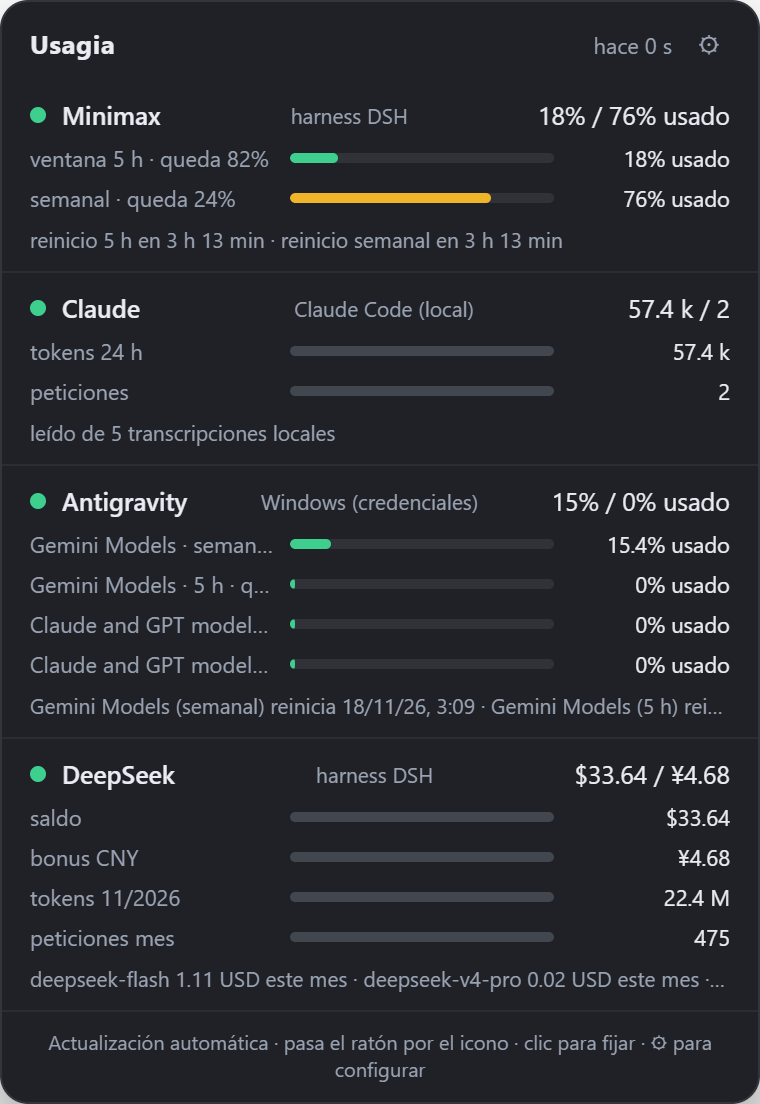
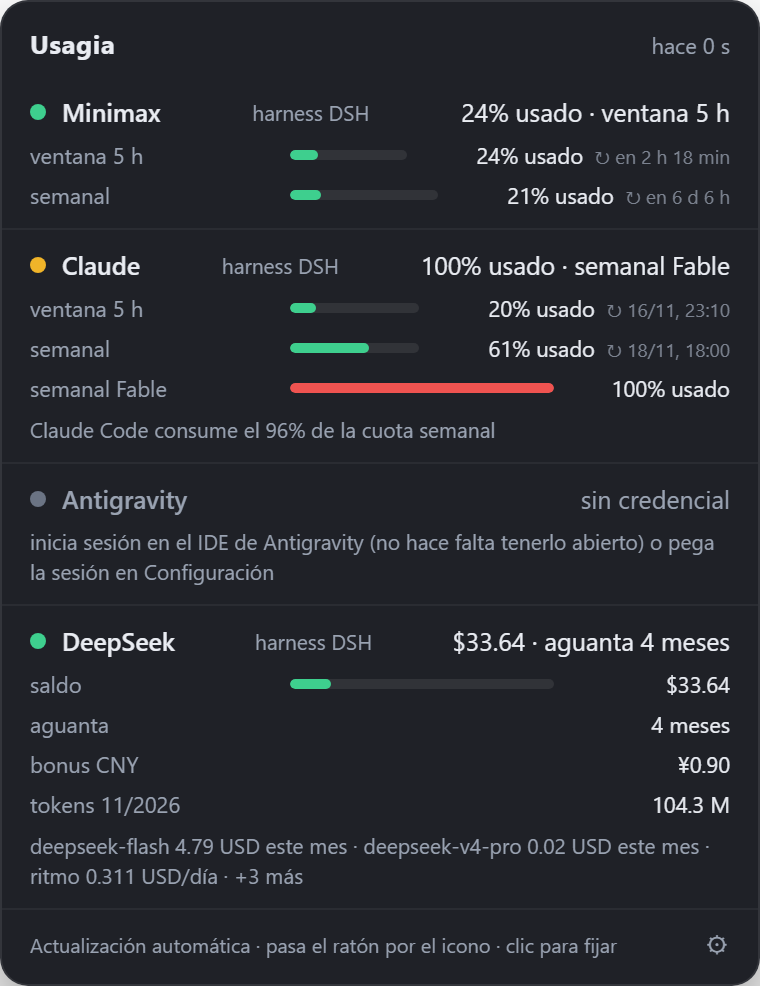
feat: el boton de configuracion baja al pie de la tarjeta, al lado de la pista
El boton era el unico clicable de la UI y estaba en la cabecera, compitiendo con el titulo y la hora. Ahora vive en el pie, a la derecha de la frase que explica como se usar; como esta al lado, la pista ya no lo nombra.

Fijado con una prueba en scripts/test-renderer.js: el boton esta en el footer y no en el header.

diff --git a/scripts/test-renderer.js b/scripts/test-renderer.js
@@ -398,6 +398,20 @@ t.check('la version nueva sale en el banner y el boton pide actualizar (o abre l
   assert.deepStrictEqual(world.bridge.opened, [info.url], 'sin actualizacion no se abre nada nuevo');
 });
 
+t.check('el boton de configuracion esta en el PIE de la tarjeta, al lado de la pista', () => {
+  const html = fs.readFileSync(path.join(__dirname, '..', 'src', 'renderer', 'card.html'), 'utf8');
+  const footer = html.match(/<footer class="foot">([\s\S]*?)<\/footer>/);
+  assert.ok(footer, 'la tarjeta tiene que seguir con un pie');
+  assert.ok(
+    /id="gear"/.test(footer[1]),
+    'el boton de configuracion va en el pie: es el unico boton clicable y asi queda a la vista'
+  );
+  // Y NO esta en la cabecera: la cabecera solo lleva el titulo y la hora.
+  const head = html.match(/<header class="head">([\s\S]*?)<\/header>/);
+  assert.ok(head, 'la tarjeta tiene que seguir con una cabecera');
+  assert.ok(!/id="gear"/.test(head[1]), 'el boton no vuelve a la cabecera');
+});
+
 t.check('el pie: "actualizando…" mientras refresca, "hace N s" despues, y la pista cambia al fijar', () => {
   const world = loadCard();
   world.render(basePayload([], { refreshing: true }));

diff --git a/src/renderer/card.css b/src/renderer/card.css
@@ -61,6 +61,7 @@ body {
   padding: 3px 5px;
   border-radius: 6px;
   cursor: pointer;
+  flex: none;
 }
 
 .gear:hover {
@@ -256,12 +257,23 @@ body {
   color: var(--warning);
 }
 
+/* El pie lleva la pista y, a su derecha, el boton de configuracion: es el
+   unico boton clicable de la tarjeta, asi que queda a la vista, al lado de la
+   frase que explica como se usa. */
 .foot {
-  padding: 8px 14px 10px;
+  display: flex;
+  align-items: center;
+  justify-content: space-between;
+  gap: 8px;
+  padding: 8px 10px 10px 14px;
   border-top: 1px solid rgba(255, 255, 255, 0.05);
   font-size: 10px;
   color: var(--fg-dim);
-  text-align: center;
+}
+
+#hint {
+  flex: 1;
+  min-width: 0;
 }
 
 /* Banner de actualización disponible */

diff --git a/src/renderer/card.html b/src/renderer/card.html
@@ -12,7 +12,6 @@
         <span class="title">Usagia</span>
         <span class="head-right">
           <span class="updated" id="updated">—</span>
-          <button class="gear" id="gear" type="button" title="Configuración" aria-label="Configuración">⚙</button>
         </span>
       </header>
       <div class="update-banner" id="updateBanner" hidden>
@@ -22,6 +21,7 @@
       <div class="rows" id="rows"></div>
       <footer class="foot">
         <span id="hint">Actualización automática · clic derecho en el icono para más opciones</span>
+        <button class="gear" id="gear" type="button" title="Configuración" aria-label="Configuración">⚙</button>
       </footer>
     </div>
     <script src="card.js"></script>

diff --git a/src/renderer/card.js b/src/renderer/card.js
@@ -250,9 +250,11 @@ function render(payload) {
 
   updatedEl.textContent = payload.refreshing ? 'actualizando…' : relativeTime(payload.updatedAt);
   if (hintEl) {
+    // El boton de configuracion va al pie, al lado de esta pista: no hace
+    // falta nombrarlo en el texto.
     hintEl.textContent = payload.pinned
-      ? 'Fijado · pasa el ratón o haz clic en el icono para soltarlo · ⚙ para configurar'
-      : 'Actualización automática · pasa el ratón por el icono · clic para fijar · ⚙ para configurar';
+      ? 'Fijado · pasa el ratón o haz clic en el icono para soltarlo'
+      : 'Actualización automática · pasa el ratón por el icono · clic para fijar';
   }
   reportSize();
 }

diff --git a/STATUS.md b/STATUS.md
@@ -1,6 +1,6 @@
 # Estado de Usagia
 
-> **Última actualización:** 2026-11-16 18:40 (Europe/Madrid).
+> **Última actualización:** 2026-11-16 18:55 (Europe/Madrid).
 > **Quién escribe este fichero ahora mismo:** la sesión de **documentación** (la que partió
 > este fichero en *estado* + *historial*). Ver
 > [Lo último: documentación para humanos y agentes](#lo-último-documentación-para-humanos-y-agentes-2026-11-16-1850).
@@ -19,21 +19,22 @@
 <!-- índice-de-secciones: generado con `node scripts/docs-metrics.js --index <fichero>` -->
 | Sección | Línea |
 |---|---|
-| Lo último: documentación para humanos y agentes (2026-11-16 18:50) | 39 |
-| Resumen en una línea | 71 |
-| Sesiones activas en este repo (2026-11-16 18:45) | 82 |
-| Versiones | 128 |
-| Cola de la revisión a fondo: lo que queda (items 12 y 17) | 160 |
-| Qué funciona (verificado) | 183 |
-| Pendiente / siguiente | 202 |
-| Puntos abiertos y riesgos conocidos | 233 |
-| Límites del sandbox de DSH al medir (no son fallos de la app) | 257 |
-| Reparto entre sesiones (acuerdo) | 269 |
-| Cómo mantener este fichero | 291 |
-| Decisiones que son del usuario | 304 |
-| Notas para quien siga | 311 |
-| Retomar (en 5 minutos) | 318 |
-| Actualización automática desde la app (2026-11-16 18:45) | 333 |
+| Lo último: documentación para humanos y agentes (2026-11-16 18:50) | 40 |
+| Lo último: el ⚙ baja al pie de la tarjeta (2026-11-16 18:55) | 72 |
+| Resumen en una línea | 94 |
+| Sesiones activas en este repo (2026-11-16 18:45) | 105 |
+| Versiones | 152 |
+| Cola de la revisión a fondo: lo que queda (items 12 y 17) | 184 |
+| Qué funciona (verificado) | 207 |
+| Pendiente / siguiente | 226 |
+| Puntos abiertos y riesgos conocidos | 257 |
+| Límites del sandbox de DSH al medir (no son fallos de la app) | 281 |
+| Reparto entre sesiones (acuerdo) | 293 |
+| Cómo mantener este fichero | 315 |
+| Decisiones que son del usuario | 328 |
+| Notas para quien siga | 335 |
+| Retomar (en 5 minutos) | 342 |
+| Actualización automática desde la app (2026-11-16 18:45) | 357 |
 <!-- fin-índice -->
 
 ## Lo último: documentación para humanos y agentes (2026-11-16 18:50)
@@ -68,6 +69,28 @@ sesión **no lo ha tocado**. `npm test` → **10 suites en verde**.
 sesión había cerrado su trabajo), así que cumplía la regla del repo. Es un `docs:`: **no
 publica release**.
 
+## Lo último: el ⚙ baja al pie de la tarjeta (2026-11-16 18:55)
+
+**Pregunta del usuario:** si el único botón clicable de la UI es el de
+configuración, ¿por qué no dejarlo abajo, al lado de la pista que sale al pasar
+el ratón?
+
+**Hecho:** el ⚙ baja de la cabecera al **pie** de la tarjeta, a la derecha de la
+pista (`src/renderer/card.html`, `card.css`, `card.js`). La cabecera se queda
+solo con el título y la hora; el pie es ahora una fila con la pista y el botón.
+Como el botón está al lado, la pista ya no lo nombra ("⚙ para configurar"
+desaparece del texto).
+
+**Por qué:** el ⚙ es el único botón de la tarjeta, y arriba competía con el
+título y la hora; abajo queda pegado a la frase que explica cómo se usa, que
+es justo donde el ojo ya está.
+
+**Fijado con una prueba:** `scripts/test-renderer.js` comprueba que el botón
+está en el `<footer>` y **no** en el `<header>` (que no vuelva a subir).
+
+**Verificado:** `npm test` → 10 suites en verde; vista previa con datos vivos
+(`preview-card.png`): el ⚙ sale en el pie, a la derecha de la pista.
+
 ## Resumen en una línea
 
 App de bandeja (Electron) que muestra la cuota de Minimax, Claude, Antigravity
@@ -93,6 +116,7 @@ ficheros aquí y fusiona en lugar de pisar.
 | `session-dab004c1` | Monitor de IAs. **Pausa**: verificado el binario publicado de `beta.4` y `beta.6` (portable, con el ratón real). Le queda el instalador NSIS, el cuelgue de `preview:settings` y cuatro apuntes de revisión | (repositorio: sus cambios ya están dentro) |
 | `session-onboarding` | **Activa**: propuesta de conectar cuentas en [openspec/changes/2026-11-16-onboarding-cuentas/](openspec/changes/2026-11-16-onboarding-cuentas/proposal.md). Además, instalación de actualizaciones en curso | `src/main/update-install.js` · `src/main/updates.js` · `src/preload/*` · `src/renderer/card.*` · `src/renderer/settings.*` · `scripts/test-updates.js` |
 | `session-docs` (**esta**) | Documentación: `docs/` con índice y carga selectiva, `STATUS.md` partido en estado + historial, skill `usagia-docs`, `scripts/test-docs.js` y `scripts/docs-metrics.js` | `docs/` · `scripts/test-docs.js` · `scripts/docs-metrics.js` · `STATUS.md` · `FINDINGS.md` (solo el índice) · `AGENTS.md` · `.agents/skills/usagia-docs/` |
+| `session-lead` | **Activa**: el ⚙ de la tarjeta baja al pie, al lado de la pista (ver *Lo último*) | `src/renderer/card.html` · `src/renderer/card.css` · `src/renderer/card.js` · `scripts/test-renderer.js` · `README.md` (interacción) |
 
 El detalle de cada sesión (qué hizo, con qué commits) está en
 [docs/historial.md](docs/historial.md#pausa-del-día-2026-11-16-0200-qué-le-queda-a-cada-sesión).

diff --git a/README.md b/README.md
@@ -73,8 +73,8 @@ credencial"* en lugar de desaparecer.
 
 ## Configuración
 
-Hay una **ventana de configuración** dentro de la app: el botón **⚙** de la
-tarjeta (o *Configuración…* en el menú del clic derecho). Ahí se pueden:
+Hay una **ventana de configuración** dentro de la app: el botón **⚙** del pie
+de la tarjeta (o *Configuración…* en el menú del clic derecho). Ahí se pueden:
 
 - **Añadir cuentas**: se admite **varias cuentas del mismo proveedor** (una por
   cuenta de IA). Cada cuenta tiene su nombre, su credencial y su interruptor
@@ -323,7 +323,7 @@ en el binario (`--config.extraMetadata.version=`); en `package.json` queda
 |---|---|
 | **Pasar el ratón** por el icono | Aparece la tarjeta; se oculta al apartar el ratón |
 | **Clic** en el icono | Fija la tarjeta (toggle): se queda abierta hasta otro clic |
-| **⚙** en la tarjeta | Abre la ventana de configuración (cuentas y ajustes) |
+| **⚙** en la tarjeta | Abre la ventana de configuración (cuentas y ajustes). Está en el **pie**, junto a la pista |
 | **Clic derecho** en el icono | Menú con el resumen de cada IA (clic en uno abre su panel), refresco, configuración y salida |
 
 La tarjeta no intercepta el ratón mientras no tengas el puntero encima: puedes

diff --git a/FINDINGS.md b/FINDINGS.md
@@ -419,8 +419,8 @@ Reglas que se aplican:
 
 ### Cuentas (varias del mismo proveedor)
 
-Desde la v1.1 la app tiene una **ventana de configuración** (botón ⚙ de la
-tarjeta o *Configuración…* en el menú del icono) donde se gestionan las
+Desde la v1.1 la app tiene una **ventana de configuración** (botón ⚙ del pie de
+la tarjeta o *Configuración…* en el menú del icono) donde se gestionan las
 **cuentas**:
 
 - Una cuenta = un proveedor + un nombre + su credencial + su interruptor.
